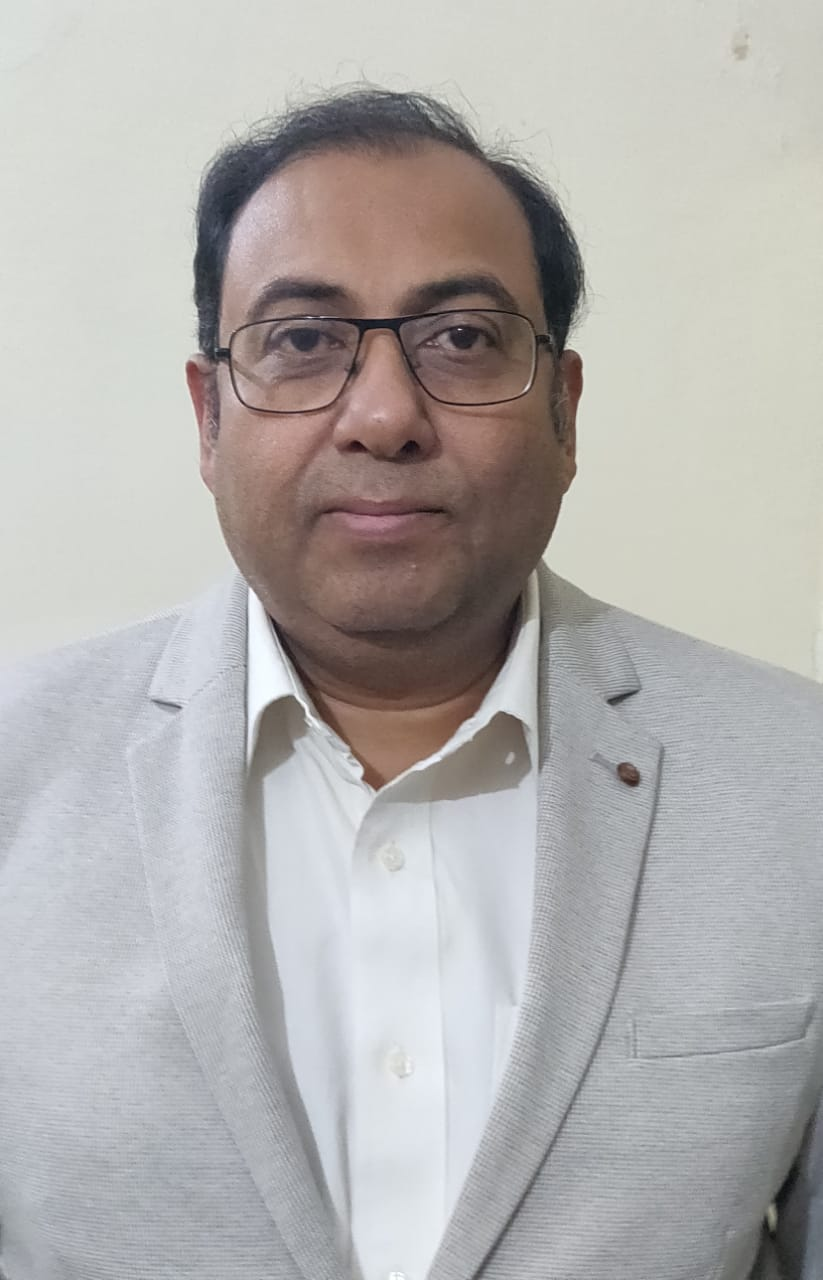
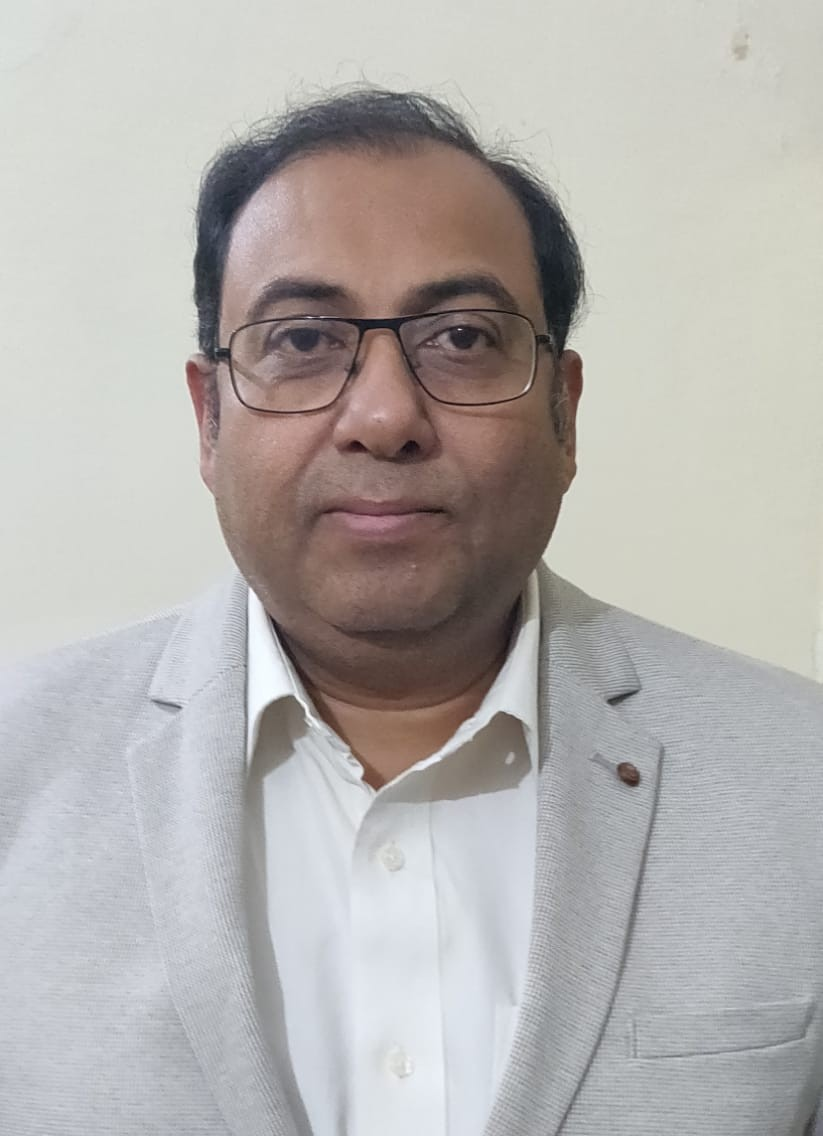
Changed Preloader load to start, testimonails tagline, aniamtions fromcards in speakers and workshops

diff --git a/src/components/Team.tsx b/src/components/Team.tsx
@@ -1,5 +1,5 @@
 "use client";
-import React, { useRef } from "react";
+import React from "react";
 import { motion } from "framer-motion";
 import "./Team.css";
 
@@ -31,7 +31,6 @@ const heads: TeamMember[] = [
     { name: "Moulik Bansal", role: "Promotions Head", img: "/team/Moulik Bansal_proms.jpg" },
     { name: "Arpita Mishra", role: "Promotions Head", img: "/team/Arpita Mishra_proms.jpg" },
     { name: "Nilesh", role: "Sponsorship & Outreach Head", img: "/team/Nilesh_Outreach.jpg" },
-    { name: "Ahraz Rafiq", role: "Sponsorship & Outreach Head", img: "/team/Ahraz_Rafiq_Spons_Outreach.jpg" },
     { name: "Amey Joshi", role: "Sponsorship Head", img: "/team/Amay Joshi.jpeg" },
     { name: "Mohit Sharma", role: "Outreach Head", img: "/team/Mohit Sharma.jpeg" },
     { name: "Yashwant", role: "Video Editing Head", img: "/team/Yashwant.jpg" },
@@ -89,33 +88,8 @@ export default function TeamSection() {
 }
 
 function Card3D({ member }: { member: TeamMember }) {
-    const cardRef = useRef<HTMLDivElement>(null);
-
-    const handleMove = (e: React.MouseEvent) => {
-        const card = cardRef.current!;
-        const rect = card.getBoundingClientRect();
-
-        const x = (e.clientX - rect.left) / rect.width;
-        const y = (e.clientY - rect.top) / rect.height;
-
-        const rotateX = (y - 0.5) * -20;
-        const rotateY = (x - 0.5) * 20;
-
-        card.style.transform = `rotateX(${rotateX}deg) rotateY(${rotateY}deg)`;
-    };
-
-    const handleLeave = () => {
-        const card = cardRef.current!;
-        card.style.transform = `rotateX(0deg) rotateY(0deg)`;
-    };
-
     return (
-        <div
-            ref={cardRef}
-            className="team-card"
-            onMouseMove={handleMove}
-            onMouseLeave={handleLeave}
-        >
+        <div className="team-card">
             <div className="team-img">
                 <img src={member.img} alt={member.name} />
             </div>

diff --git a/src/components/Speakers.css b/src/components/Speakers.css
@@ -27,8 +27,6 @@
   width: 100%;
   max-width: 1300px;
   justify-items: center;
-  perspective: 1000px;
-  /* 🔥 REQUIRED FOR 3D HOVER TO WORK */
 }
 
 
@@ -39,17 +37,8 @@
   border-radius: 50%;
   overflow: hidden;
   cursor: pointer;
-  transition: transform 0.4s ease, box-shadow 0.4s ease;
   box-shadow: 0 15px 35px rgba(0, 0, 0, 0.5);
   background: radial-gradient(circle at top, #222, #000);
-  transform-style: preserve-3d;
-  will-change: transform;
-  /* 🔥 Hardware Acceleration */
-}
-
-.speaker-bubble:hover {
-  transform: scale(1.08) rotateX(10deg) rotateY(-10deg) !important;
-  box-shadow: 0 25px 50px rgba(0, 0, 0, 0.7) !important;
 }
 
 /* Updated selector to target Image component */
@@ -61,9 +50,7 @@
 }
 
 
-.speaker-bubble:hover img {
-  opacity: 0.3 !important;
-}
+
 
 
 .speaker-overlay {
@@ -80,9 +67,7 @@
 }
 
 
-.speaker-bubble:hover .speaker-overlay {
-  opacity: 1 !important;
-}
+
 
 /* Wrapper for bubble + text */
 .speaker-container {

diff --git a/src/components/Workshops.tsx b/src/components/Workshops.tsx
@@ -1,6 +1,5 @@
 "use client";
 import React, { useState } from "react";
-import Tilt from "react-parallax-tilt";
 import { motion } from "framer-motion";
 import "./Workshops.css";
 import Modal from "./Modal";
@@ -62,7 +61,7 @@ export default function Cards() {
 
       <div className="cards-grid">
         {cardData.map((item, index) => (
-          <Tilt key={index} tiltMaxAngleX={10} tiltMaxAngleY={10} scale={1.05} transitionSpeed={2500} className="card-tilt">
+          <div key={index} className="card-tilt">
             <div
               className="card"
               onClick={() => setSelectedWorkshop(item)}
@@ -77,7 +76,7 @@ export default function Cards() {
                 <p>{item.desc}</p>
               </div>
             </div>
-          </Tilt>
+          </div>
         ))}
       </div>
 

diff --git a/src/components/Testimonials.tsx b/src/components/Testimonials.tsx
@@ -101,7 +101,6 @@ export default function Testimonials() {
             <div className={styles.container}>
                 <div className={styles.headingWrapper}>
                     <h2 className={styles.title}>Voices of Comet</h2>
-                    <p className={styles.subtitle}>What our speakers had to say</p>
                 </div>
             </div>
 

diff --git a/src/components/Preloader/Preloader.tsx b/src/components/Preloader/Preloader.tsx
@@ -18,6 +18,7 @@ export default function Preloader() {
 
         if (!title || !subtitle || !containerRef.current || !flashRef.current || !textRef.current) return;
 
+        window.scrollTo(0, 0);
         document.body.style.overflow = "hidden";
 
         const tl = gsap.timeline();
